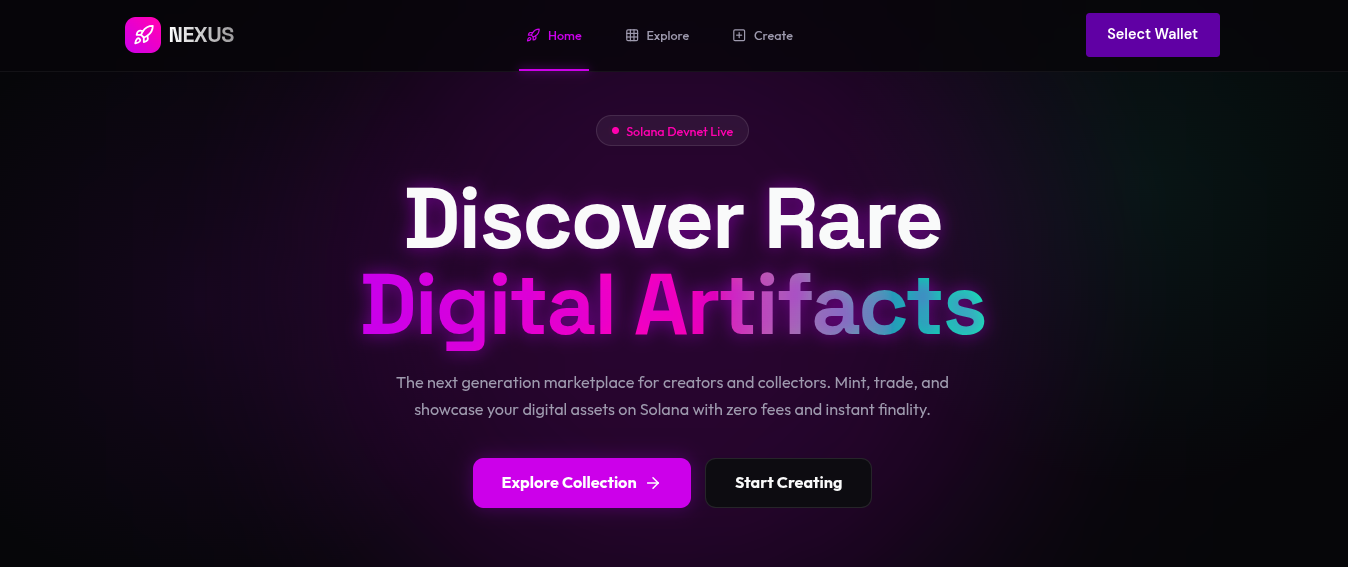
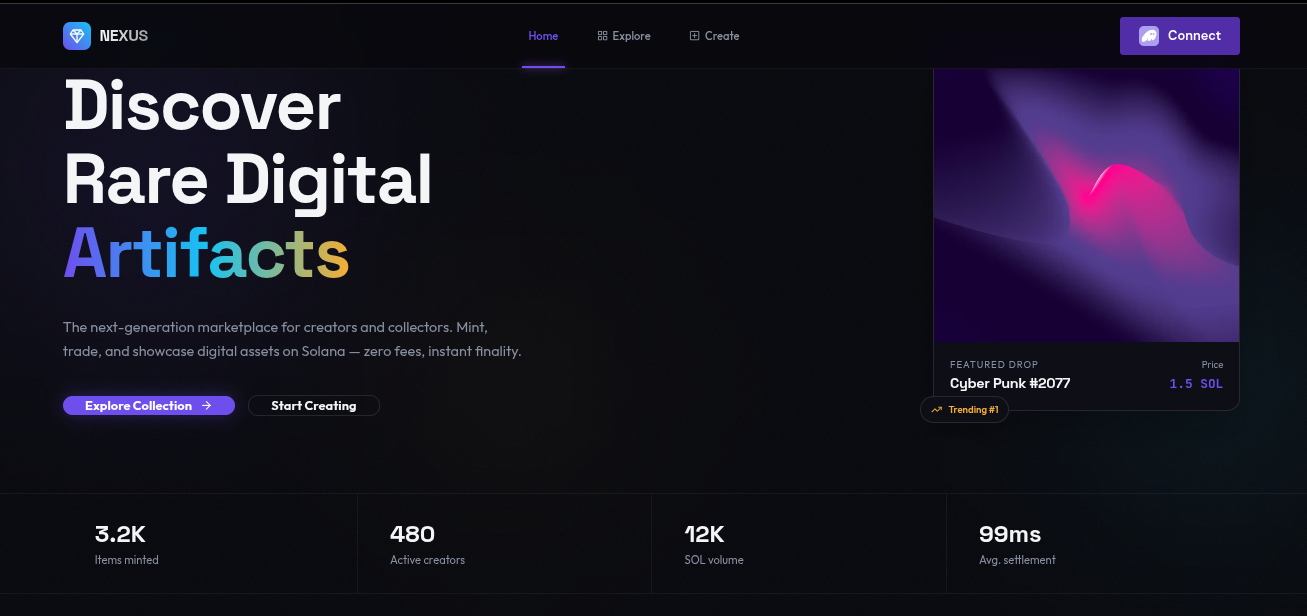
docs: embed new UI screenshot for nexus

diff --git a/index.html b/index.html
@@ -290,7 +290,7 @@
                     </a>
                 </div>
                 <div class="proj-body">
-                    <div class="proj-top"><h3>Nexus NFT Marketplace</h3><div class="plx"><a href="https://nexus-nft-beta.vercel.app/" target="_blank" rel="noopener" class="pl" data-tooltip="Live Demo"><i class="fas fa-external-link-alt"></i></a><a href="https://github.com/Devrancis/nexus-nft" target="_blank" rel="noopener" class="pl" data-tooltip="Source Code"><i class="fab fa-github"></i></a></div></div>
+                    <div class="proj-top"><h3>Nexus</h3><div class="plx"><a href="https://nexus-nft-beta.vercel.app/" target="_blank" rel="noopener" class="pl" data-tooltip="Live Demo"><i class="fas fa-external-link-alt"></i></a><a href="https://github.com/Devrancis/nexus-nft" target="_blank" rel="noopener" class="pl" data-tooltip="Source Code"><i class="fab fa-github"></i></a></div></div>
                     <p>Full-featured NFT marketplace on Solana blockchain with minting, trading, and wallet integration.</p>
                     <div class="ptags"><span>Solana</span><span>Rust</span><span>React</span><span>Web3.js</span></div>
                 </div>